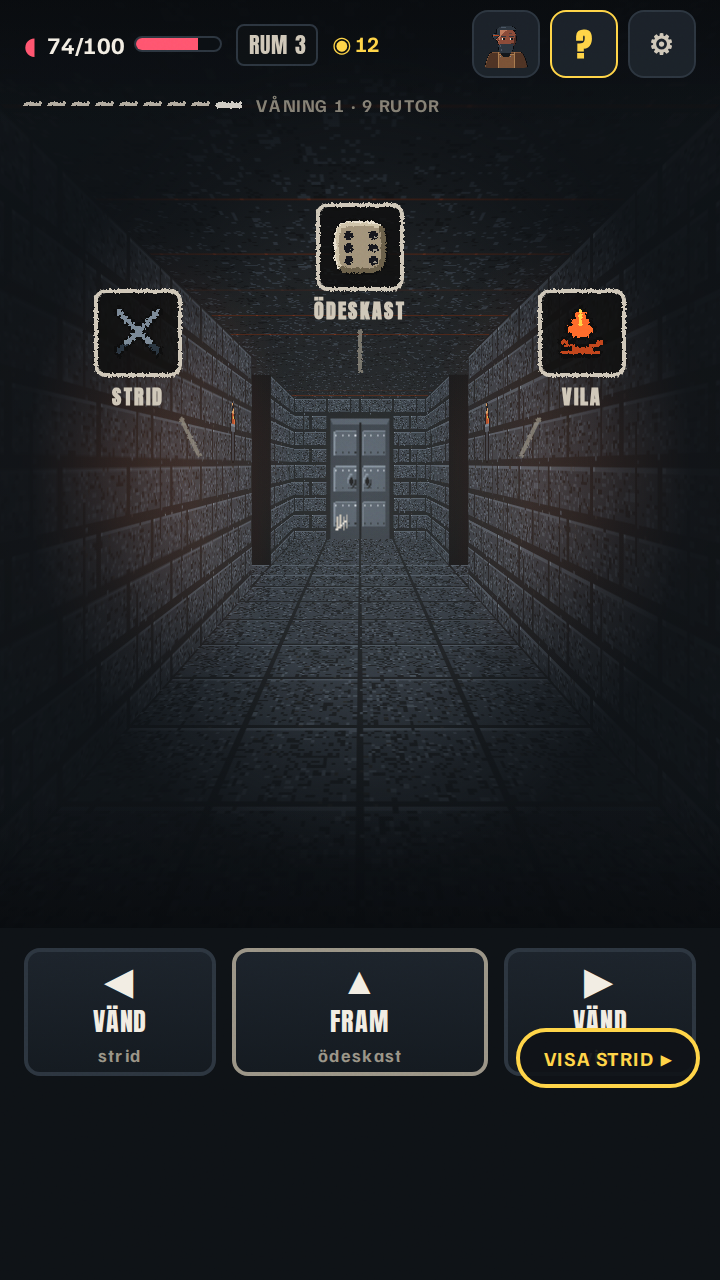
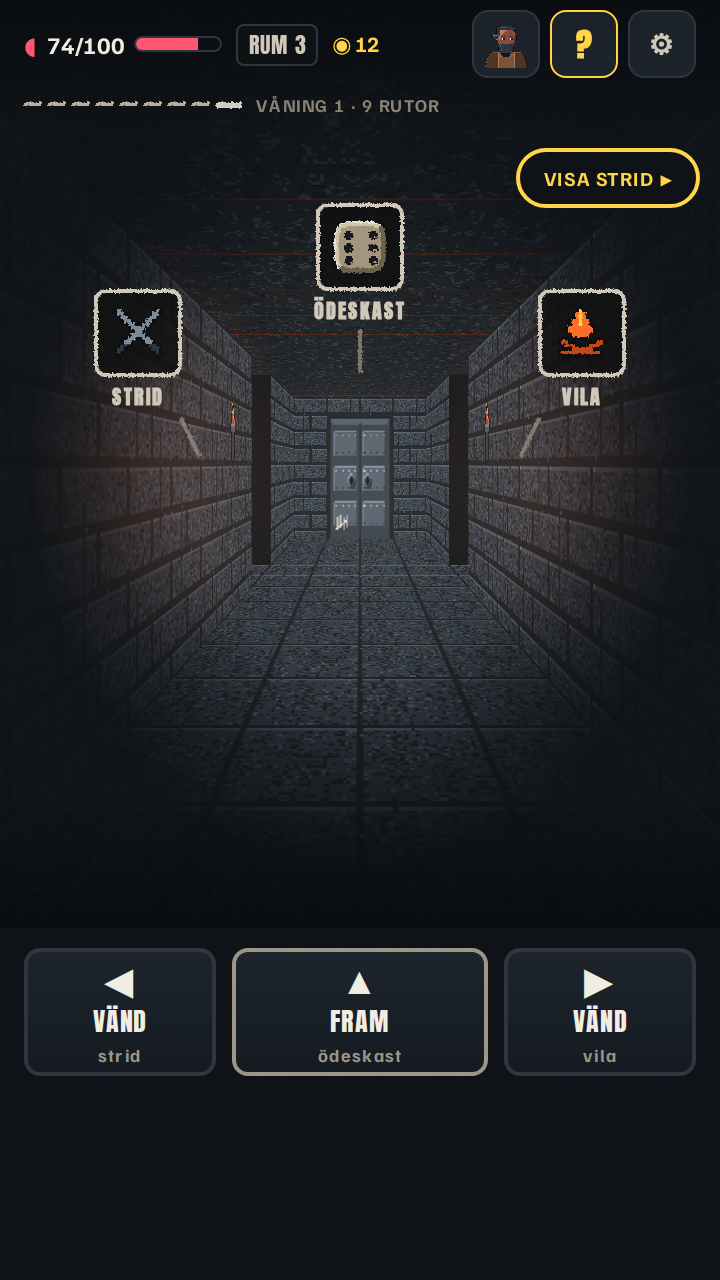
Corridor mockup: move the view switch out of the thumb zone and reshoot
The mockup-only toggle sat on top of the right direction button. Screenshots
for both views at 360x640 and 390x844, all four without scroll.

Claude-Session: https://claude.ai/code/session_015uKKpjompKtb1mv3yRQJxe

diff --git a/rogelike_app/design/mockup_corridor.html b/rogelike_app/design/mockup_corridor.html
@@ -231,7 +231,8 @@ body::after{content:"";position:fixed;inset:0;pointer-events:none;z-index:99;opa
 .btns .confirm{flex:1 1 auto;border:none;background:var(--charge);color:#12161A;font-size:16px}
 
 /* ===== Lägesväxlare ===== */
-.toggle{position:absolute;right:10px;bottom:96px;z-index:30;border:2px solid var(--charge);
+/* Bara i mockupen: växla mellan vyerna. Finns inte i spelet. */
+.toggle{position:absolute;right:10px;top:74px;z-index:30;border:2px solid var(--charge);
   border-radius:999px;background:rgba(14,18,22,.9);color:var(--charge);
   font:700 10px/1 'Familjen Grotesk',sans-serif;padding:8px 12px;letter-spacing:.06em}
 #viewExplore{display:flex;flex-direction:column;height:100%}
@@ -480,7 +481,7 @@ body.fight #viewExplore{display:none}
     </div>
   </div>
 
-  <button class="toggle" style="bottom:auto;top:calc(45dvh - 46px);left:10px;right:auto" onclick="document.body.classList.remove('fight')">◂ VISA KORRIDOR</button>
+  <button class="toggle" style="top:calc(45dvh - 46px);left:10px;right:auto" onclick="document.body.classList.remove('fight')">◂ VISA KORRIDOR</button>
 </div>
 
 </div>
